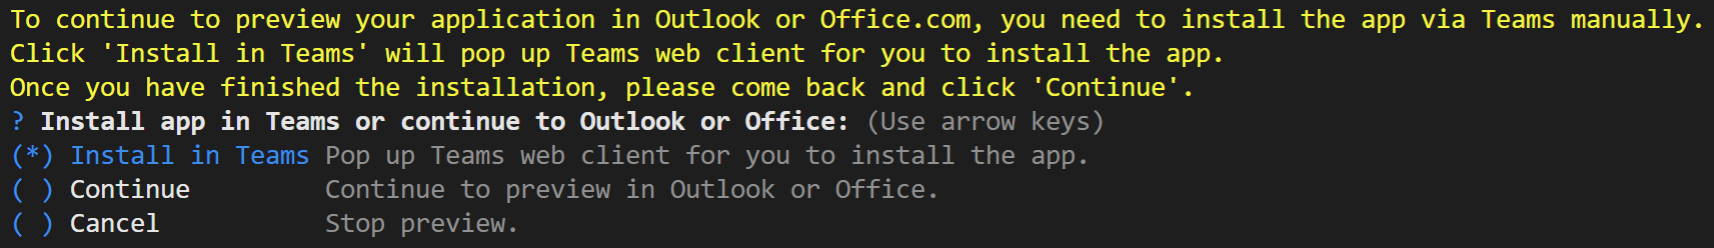
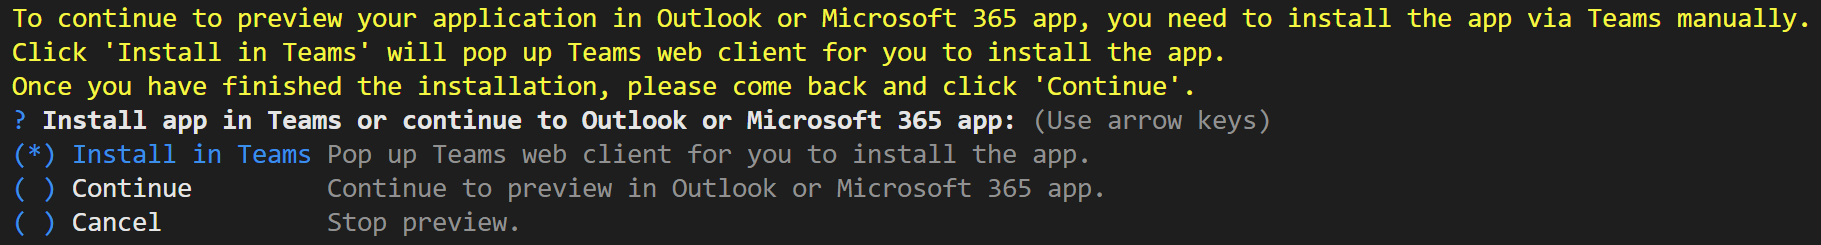
chore(m365): rename "Office.com" to "Microsoft 365 app"

diff --git a/todo-list-with-Azure-backend-M365/README.md b/todo-list-with-Azure-backend-M365/README.md
@@ -4,7 +4,7 @@
 >  
 > This warning will be removed when the samples are ready for production.
 
-Todo List app helps to manage your personal to do items. This app can be installed and used not only in your Teams client, but also Outlook client and Office.com. The frontend is a React app and the backend is an Azure Function. You can deploy and host the app in Azure.
+Todo List app helps to manage your personal to do items. This app can be installed and used not only in your Teams client, but also Outlook client and Microsoft 365 app. The frontend is a React app and the backend is an Azure Function. You can deploy and host the app in Azure.
 
 ![Todo Item List](images/todo-list-M365.gif)
 
@@ -20,7 +20,7 @@ Todo List app helps to manage your personal to do items. This app can be install
 - How to use TeamsFx to build frontend hosting on Azure for your tab app.
 - How to use TeamsFx to build backend hosting on Azure for your tab app.
 - How to use MS graph client in TeamsFx to get access to Microsoft 365 data.
-- How to use Teams Toolkit to build a personal tab app with Azure Function backend that runs across Microsoft 365 including Teams, Outlook and Office
+- How to use Teams Toolkit to build a personal tab app with Azure Function backend that runs across Microsoft 365 including Teams, Outlook and Microsoft 365 app
 
 ## Try the Sample with Visual Studio Code Extension:
 
@@ -31,12 +31,12 @@ Todo List app helps to manage your personal to do items. This app can be install
 3. Open the project in Visual Studio Code.
 4. Open the command palette and select `Teams: Provision in the cloud`. 
 5. Once provision is completed, open the command palette and select `Teams: Deploy to the cloud`.
-6. Once deployment is completed, you can preview the app running in Azure. In Visual Studio Code, open the `Teams Toolkit` Activity Panel. In `ENVIRONMENTS`, select the environment you want to preview and click the `Preview App` icon. For the prompted question, select the platform you want to preview in. If you select Outlook or Office, a VS Code dialog will be popped up as the image below. Please click "Install in Teams" first to install the app in Teams, then click "Continue" to continue to preview the app in Outlook or Office.
+6. Once deployment is completed, you can preview the app running in Azure. In Visual Studio Code, open the `Teams Toolkit` Activity Panel. In `ENVIRONMENTS`, select the environment you want to preview and click the `Preview App` icon. For the prompted question, select the platform you want to preview in. If you select Outlook or Microsoft 365 app, a VS Code dialog will be popped up as the image below. Please click "Install in Teams" first to install the app in Teams, then click "Continue" to continue to preview the app in Outlook or Microsoft 365 app.
   ![Install in Teams VSC Remote](./images/install-in-teams-vsc-remote.png)
 
 ## (Optional) Debug
 
-1. In Visual Studio Code, open the `Run and Debug` Activity Panel, select `Debug in Teams`, `Debug in Outlook` or `Debug in Office` and click the `Run and Debug` green arrow button. If you select `Debug in Outlook` or `Debug in Office`, during debugging, a VS Code dialog will be popped up as the image below. Please click "Install in Teams" first to install the app in Teams, then click "Continue" to continue to debug the app in Outlook or Office.
+1. In Visual Studio Code, open the `Run and Debug` Activity Panel, select `Debug in Teams`, `Debug in Outlook` or `Debug in Microsoft 365 app` and click the `Run and Debug` green arrow button. If you select `Debug in Outlook` or `Debug in Microsoft 365 app`, during debugging, a VS Code dialog will be popped up as the image below. Please click "Install in Teams" first to install the app in Teams, then click "Continue" to continue to debug the app in Outlook or Microsoft 365 app.
   ![Install in Teams VSC Local](./images/install-in-teams-vsc-local.png)
 
 
